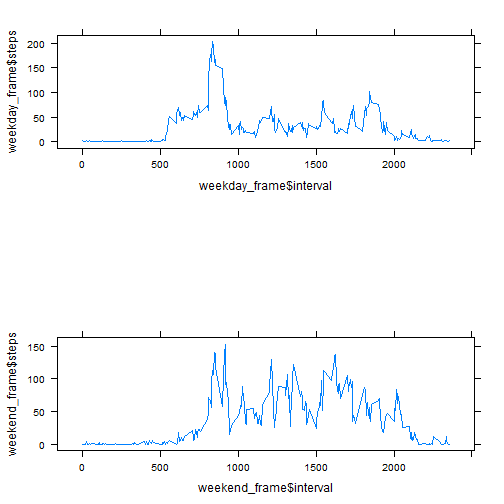
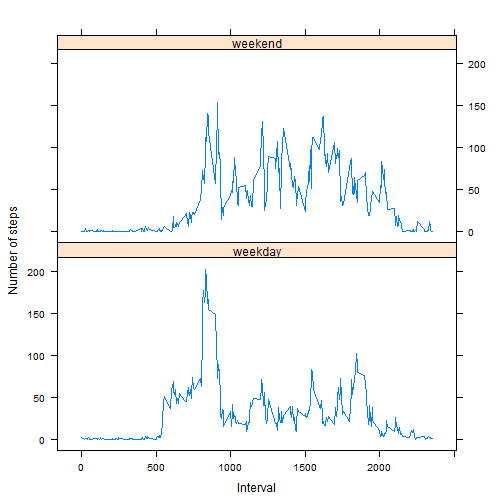
test
test

diff --git a/PA1_template.html b/PA1_template.html
@@ -490,17 +490,17 @@ data = cbind(data, days = days)
 weekday_data = data[which(data$days == &quot;weekday&quot;), ]
 weekend_data = data[which(data$days == &quot;weekend&quot;), ]
 weekday_frame = data.frame(steps = sapply(unique(weekday_data$interval), function(x) mean(weekday_data[which(weekday_data$interval == 
-    x), ]$steps)), interval = unique(weekday_data$interval))
+    x), ]$steps)), interval = unique(weekday_data$interval), days = c(rep(&quot;weekday&quot;, 
+    288)))
 weekend_frame = data.frame(steps = sapply(unique(weekend_data$interval), function(x) mean(weekend_data[which(weekend_data$interval == 
-    x), ]$steps)), interval = unique(weekend_data$interval))
+    x), ]$steps)), interval = unique(weekend_data$interval), days = c(rep(&quot;weekend&quot;, 
+    288)))
 week_frame = rbind(weekday_frame, weekend_frame)
-px1 = xyplot(weekday_frame$steps ~ weekday_frame$interval, type = &quot;l&quot;)
-px2 = xyplot(weekend_frame$steps ~ weekend_frame$interval, type = &quot;l&quot;)
-print(px1, position = c(0, 0.6, 1, 1), more = TRUE)
-print(px2, position = c(0, 0, 1, 0.4))
+xyplot(week_frame$steps ~ week_frame$interval | week_frame$days, type = &quot;l&quot;, 
+    layout = c(1, 2), xlab = &quot;Interval&quot;, ylab = &quot;Number of steps&quot;)
 </code></pre>
 
[2 lines of base64/hex data omitted]
 
 </body>
 

diff --git a/PA1_template.md b/PA1_template.md
@@ -329,14 +329,14 @@ data = cbind(data, days = days)
 weekday_data = data[which(data$days == "weekday"), ]
 weekend_data = data[which(data$days == "weekend"), ]
 weekday_frame = data.frame(steps = sapply(unique(weekday_data$interval), function(x) mean(weekday_data[which(weekday_data$interval == 
-    x), ]$steps)), interval = unique(weekday_data$interval))
+    x), ]$steps)), interval = unique(weekday_data$interval), days = c(rep("weekday", 
+    288)))
 weekend_frame = data.frame(steps = sapply(unique(weekend_data$interval), function(x) mean(weekend_data[which(weekend_data$interval == 
-    x), ]$steps)), interval = unique(weekend_data$interval))
+    x), ]$steps)), interval = unique(weekend_data$interval), days = c(rep("weekend", 
+    288)))
 week_frame = rbind(weekday_frame, weekend_frame)
-px1 = xyplot(weekday_frame$steps ~ weekday_frame$interval, type = "l")
-px2 = xyplot(weekend_frame$steps ~ weekend_frame$interval, type = "l")
-print(px1, position = c(0, 0.6, 1, 1), more = TRUE)
-print(px2, position = c(0, 0, 1, 0.4))
+xyplot(week_frame$steps ~ week_frame$interval | week_frame$days, type = "l", 
+    layout = c(1, 2), xlab = "Interval", ylab = "Number of steps")
 ```
 
 ![plot of chunk unnamed-chunk-7](figure/unnamed-chunk-7.png) 
